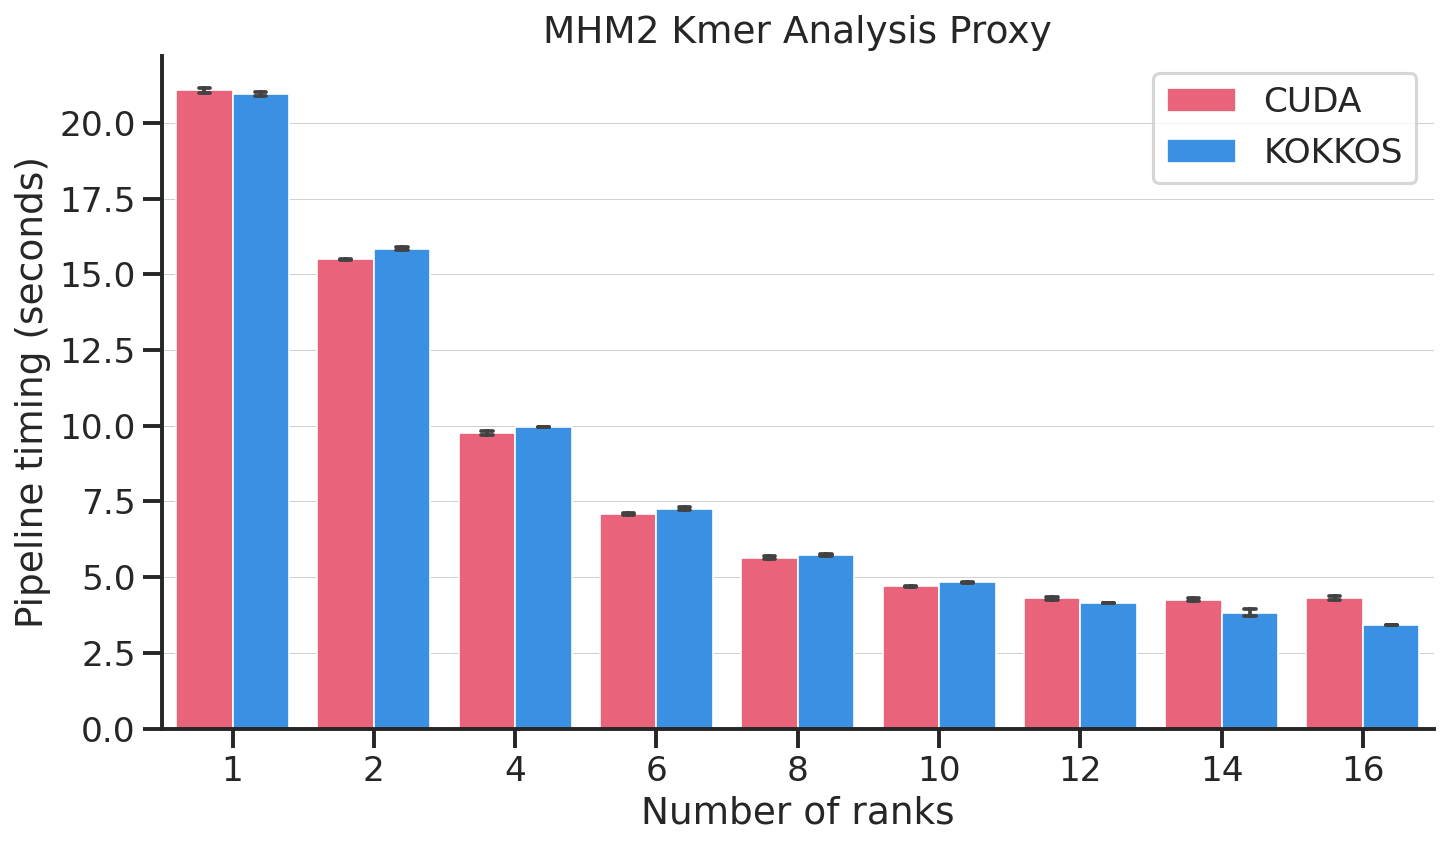
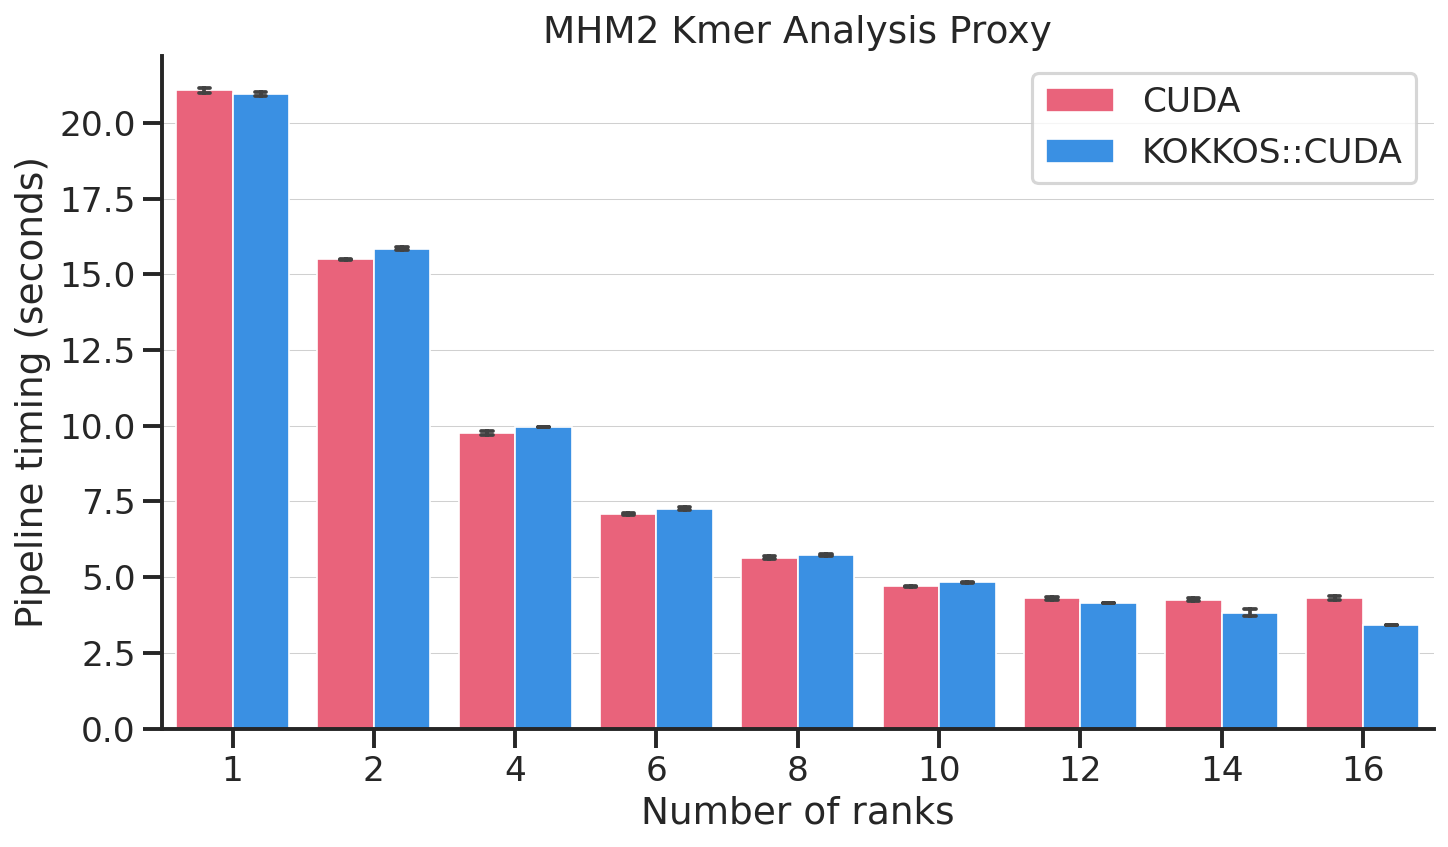
Format improvements

Changed region(s): [[0.7148, 0.0614, 0.9634, 0.2456]]

diff --git a/scripts/aggregate_results.py b/scripts/aggregate_results.py
@@ -109,12 +109,11 @@ def normalize_kokkos_use(value: str) -> str:
 def display_impl_label(kokkos_use: str, backend: Optional[str] = None) -> str:
     """Map internal KOKKOS_ON/OFF labels to chart legend names."""
     normalized = normalize_kokkos_use(kokkos_use)
+    backend_label = backend.upper() if backend else "NATIVE"
     if normalized == "KOKKOS_ON":
-        return "KOKKOS"
+        return f"KOKKOS::{backend_label}" if backend else "KOKKOS"
     if normalized == "KOKKOS_OFF":
-        if backend:
-            return backend.upper()
-        return "NATIVE"
+        return backend_label
     return normalized
 
 
@@ -421,11 +420,13 @@ PIPELINE_ERR_COLOR = "#1565C0"
 MEMORY_ERR_COLOR = "#E65100"
 # Display labels used in compare charts (after mapping from KOKKOS_ON/OFF).
 COMPARE_COLORS = {
+    "KOKKOS::CUDA": "#1E90FF",
+    "KOKKOS::HIP": "#1E90FF",
     "KOKKOS": "#1E90FF",
     "CUDA": "#FF4D6D",
     "HIP": "#FF4D6D",
 }
-COMPARE_HUE_ORDER = ("CUDA", "HIP", "KOKKOS")
+COMPARE_HUE_ORDER = ("CUDA", "HIP", "KOKKOS::CUDA", "KOKKOS::HIP", "KOKKOS")
 ERRORBAR_LINEWIDTH = 1.8
 ERRORBAR_CAPSIZE = 0.16
 ERRORBAR_CAPTHICK = 1.8
